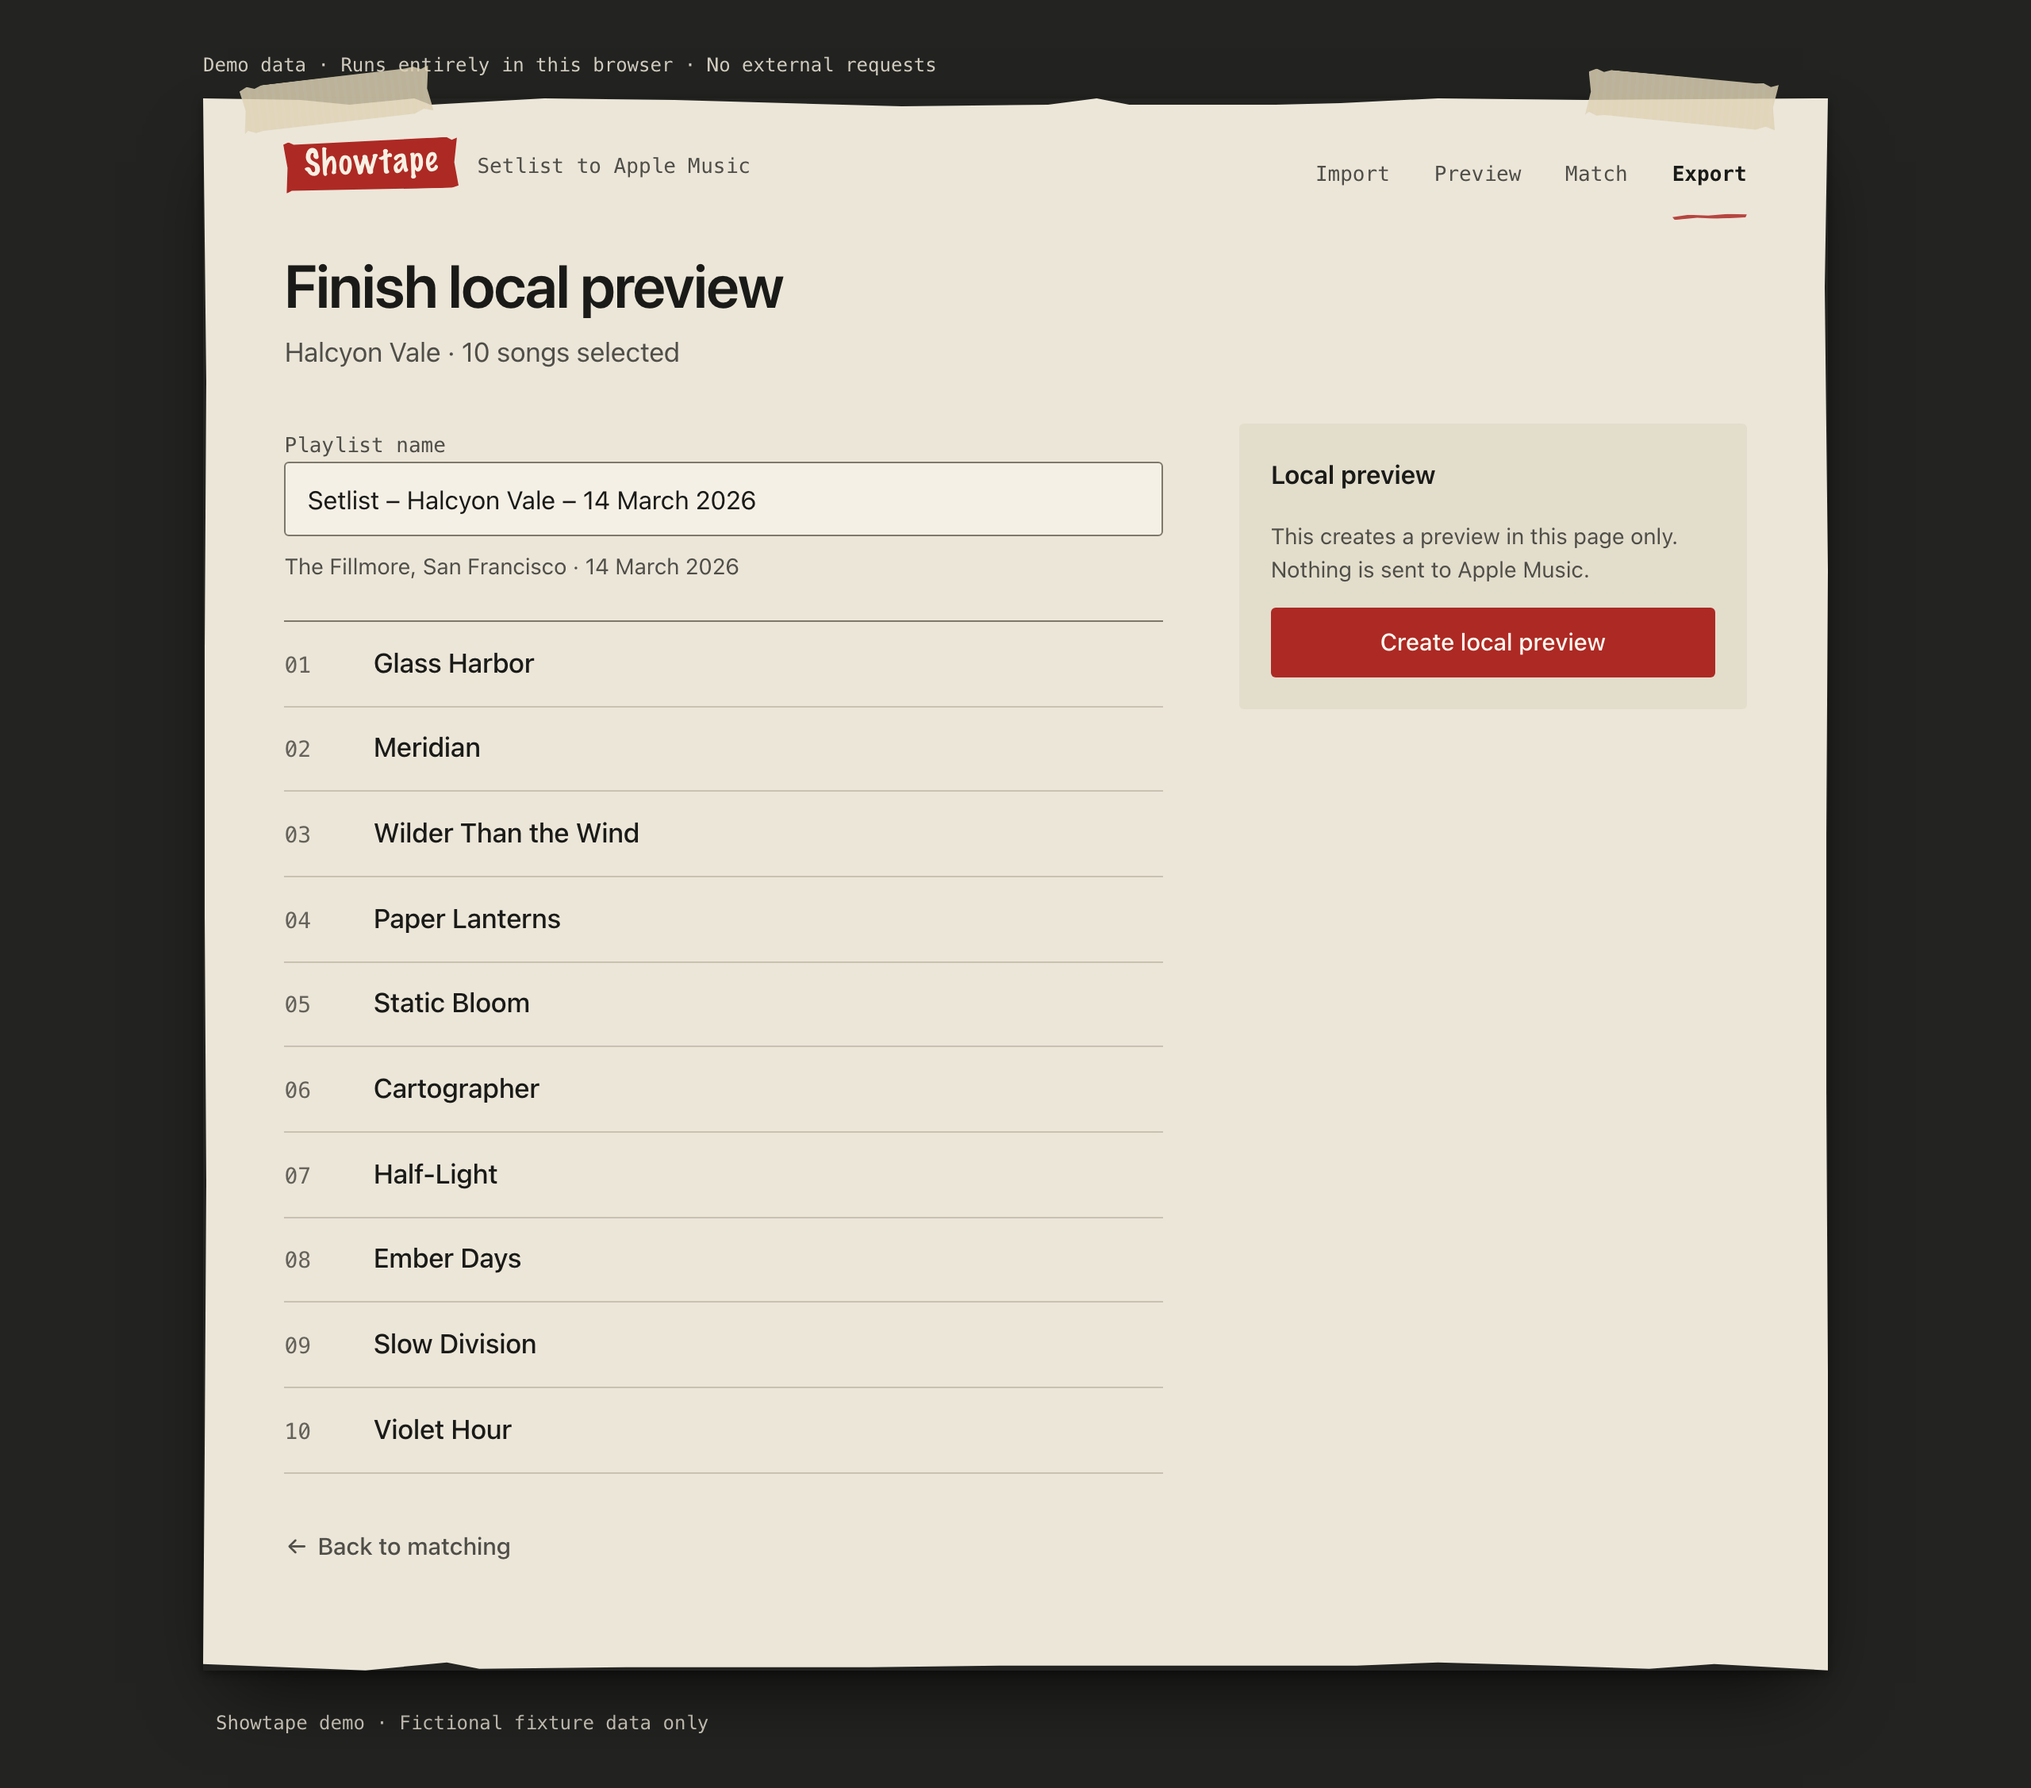
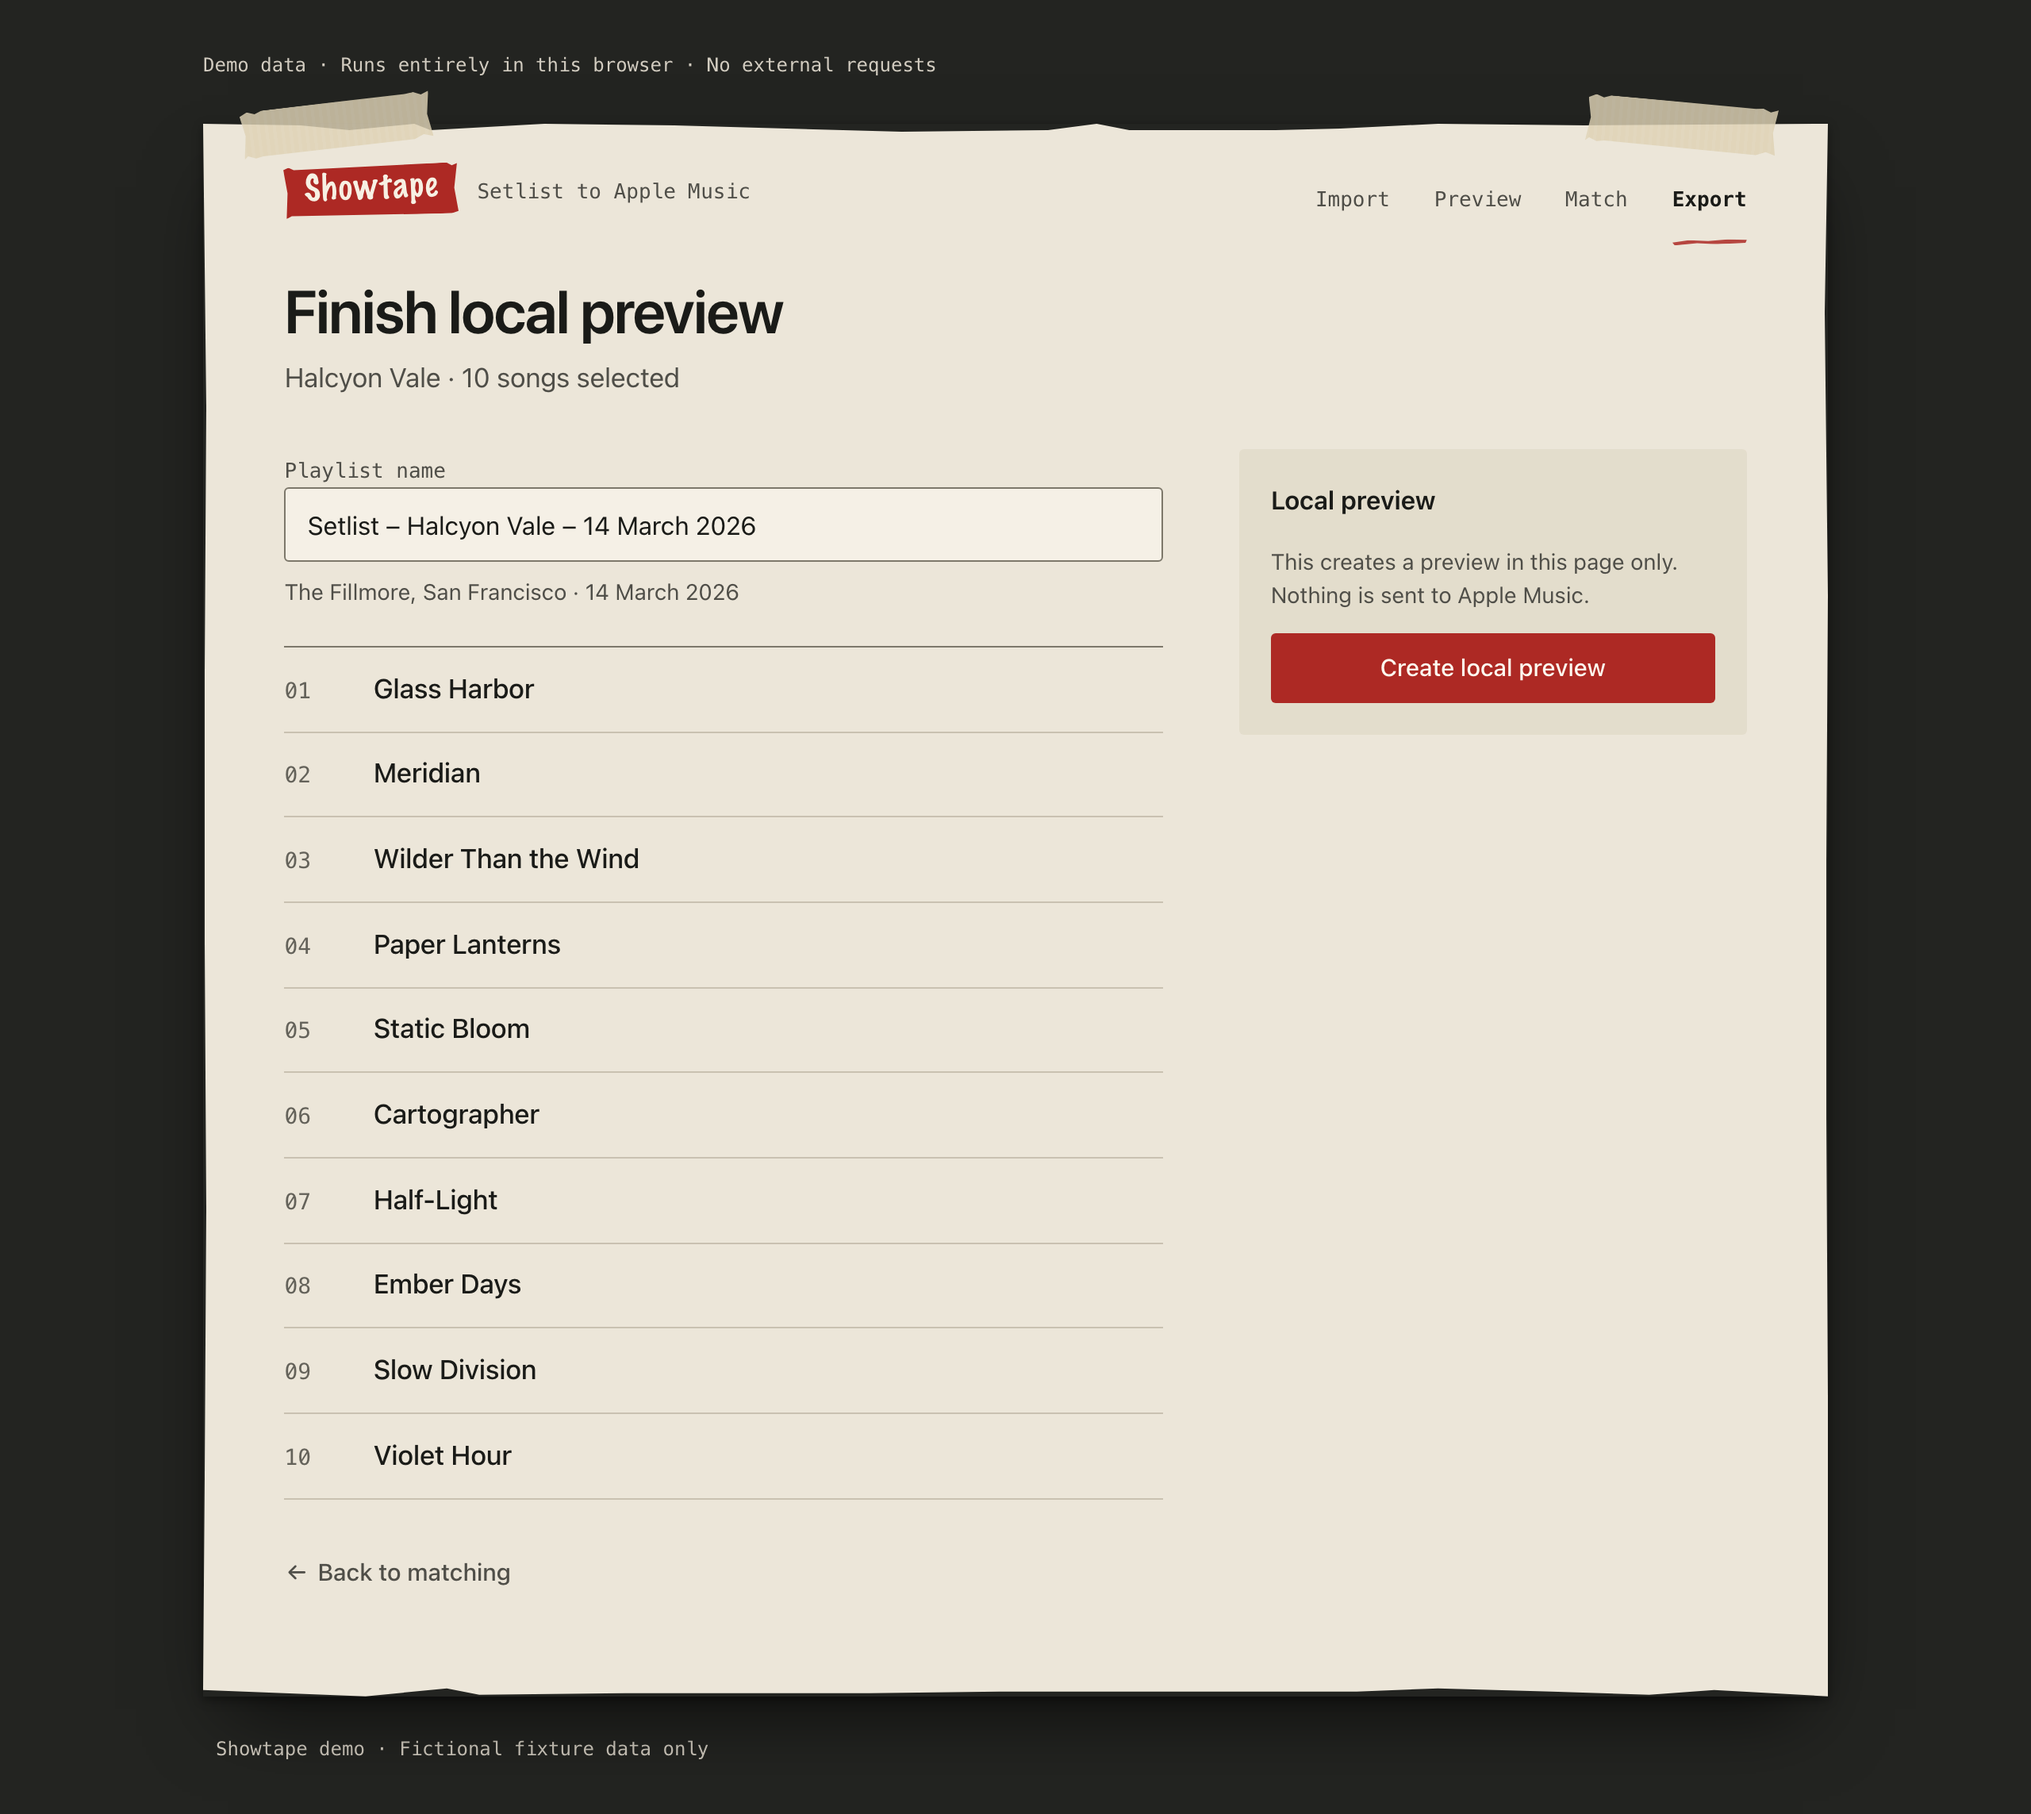
Regenerate demo screenshots for the taped-setlist design

diff --git a/demo/demo.css b/demo/demo.css
@@ -1,7 +1,7 @@
 /* Demo-only rules. Everything else comes from the shared globals.css. */
 .demo-notice {
   width: min(100%, var(--page-max));
-  margin: 0 auto 0.75rem;
+  margin: 0 auto 1.75rem;
   color: var(--stage-text-muted);
   font-family: var(--font-mono);
   font-size: 0.75rem;
